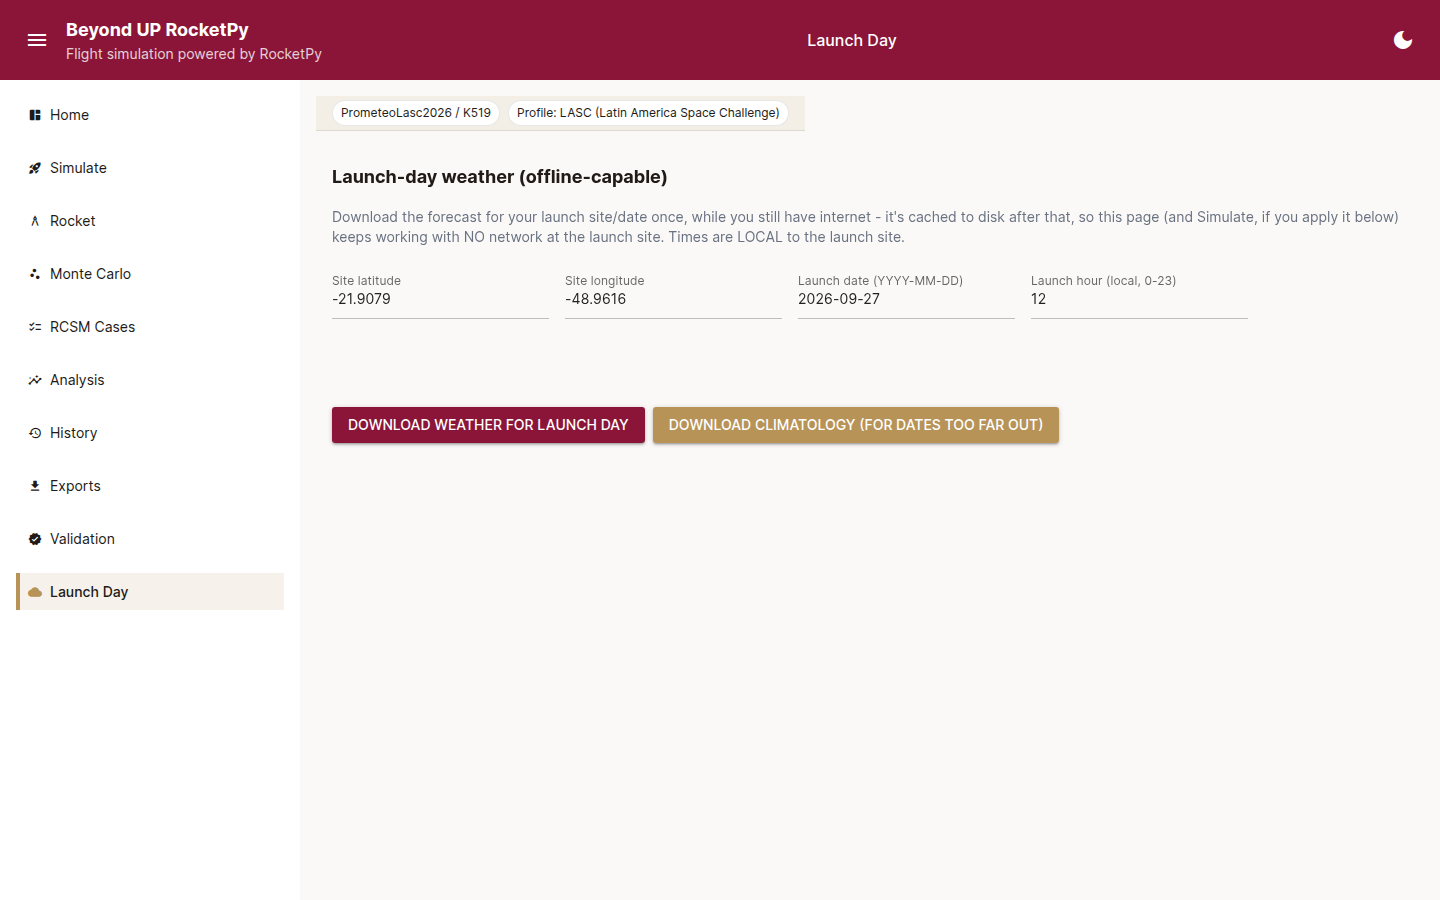
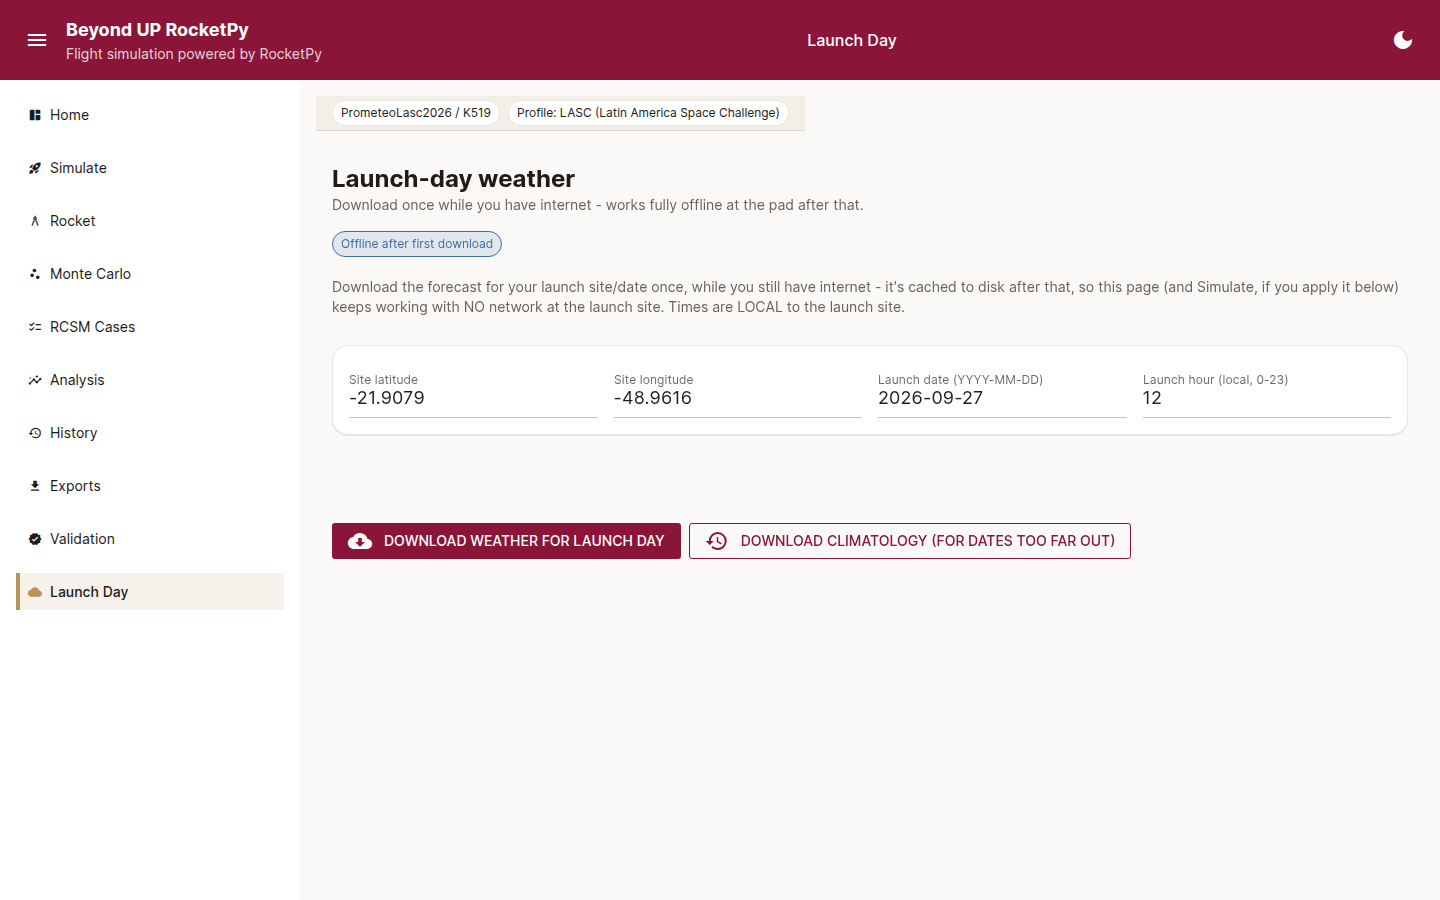
UI redesign: Launch Day page
- New components.hero_stat(): a single big, high-contrast number for
  field-friendly displays - readable at a glance in bright sunlight at
  the pad, unlike a small KPI grid.
- Wind speed/direction (both the live forecast and the climatology
  fallback) now render as hero stats instead of small KPI cards.
- Large input card for site/date/hour, an "Offline after first
  download" info chip near the top, themed buttons/status chips
  throughout (weather-override-active banner, source attribution).

Full suite: test_phase0_e2e_full.py 3/3 green (includes the
"Launch-day weather" content-marker check, page title kept as the
marker text).

Claude-Session: https://claude.ai/code/session_01RHCgNw4tm9jk7r5jJja457

diff --git a/bup_rocketpy/gui/pages/launchday_page.py b/bup_rocketpy/gui/pages/launchday_page.py
@@ -14,7 +14,7 @@ import os
 from nicegui import ui
 
 from bup_rocketpy import competition_profiles, weather
-from bup_rocketpy.gui import layout, state
+from bup_rocketpy.gui import components, layout, state
 
 s = state.state
 CACHE_DIR = os.path.join(os.getcwd(), "outputs", "weather_cache")
@@ -23,23 +23,25 @@ CACHE_DIR = os.path.join(os.getcwd(), "outputs", "weather_cache")
 @ui.page("/launchday")
 def launchday_page():
     with layout.layout("Launch Day", current_path="/launchday"):
-        ui.label("Launch-day weather (offline-capable)").classes("text-lg font-bold")
+        components.page_header("Launch-day weather", "Download once while you have internet - works fully offline at the pad after that.")
+        components.status_chip("Offline after first download", "info")
         ui.label(
             "Download the forecast for your launch site/date once, while you still have internet - "
             "it's cached to disk after that, so this page (and Simulate, if you apply it below) keeps "
             "working with NO network at the launch site. Times are LOCAL to the launch site."
-        ).classes("text-sm text-gray-500")
+        ).classes("text-sm mt-1").style("color: var(--bup-muted)")
 
         profile = competition_profiles.get_profile(s["competition_profile"])
         launch = s["load_result"].parsed_ork.launch if s["load_result"] is not None else None
         default_lat = launch.latitude if launch else (profile.default_site_lat or 0.0)
         default_lon = launch.longitude if launch else (profile.default_site_lon or 0.0)
 
-        with ui.grid(columns=4).classes("gap-4"):
-            lat_input = ui.number(label="Site latitude", value=default_lat, format="%.4f")
-            lon_input = ui.number(label="Site longitude", value=default_lon, format="%.4f")
-            date_input = ui.input(label="Launch date (YYYY-MM-DD)", value=datetime.date.today().isoformat())
-            hour_input = ui.number(label="Launch hour (local, 0-23)", value=12, min=0, max=23)
+        with components.card(classes="w-full mt-3"):
+            with ui.grid(columns=4).classes("gap-4 w-full"):
+                lat_input = ui.number(label="Site latitude", value=default_lat, format="%.4f").classes("text-lg")
+                lon_input = ui.number(label="Site longitude", value=default_lon, format="%.4f").classes("text-lg")
+                date_input = ui.input(label="Launch date (YYYY-MM-DD)", value=datetime.date.today().isoformat()).classes("text-lg")
+                hour_input = ui.number(label="Launch hour (local, 0-23)", value=12, min=0, max=23).classes("text-lg")
 
         status_label = ui.label("")
         result_container = ui.column().classes("w-full mt-2")
@@ -68,49 +70,44 @@ def launchday_page():
                 except ValueError as exc:
                     ui.label(f"Could not read wind from this profile: {exc}").classes("text-red-700")
                     return
-                with ui.grid(columns=3).classes("gap-4"):
-                    for label, value in [
-                        ("Wind speed (10 m)", f"{speed:.1f} m/s"),
-                        ("Wind direction (from)", f"{direction:.0f}°"),
-                        ("Source", profile_obj.source),
-                    ]:
-                        with ui.card():
-                            ui.label(label).classes("text-xs text-gray-500")
-                            ui.label(value).classes("text-lg font-bold")
+                # Field-friendly: the number that matters most (current
+                # surface wind speed) shown huge and high-contrast, not
+                # buried in a KPI grid - readable at a glance in bright
+                # sunlight at the launch site.
+                with ui.row().classes("gap-3 w-full items-stretch"):
+                    components.hero_stat("Wind speed (10 m)", f"{speed:.1f}", "m/s")
+                    components.hero_stat("Wind direction (from)", f"{direction:.0f}", "°")
+                components.status_chip(f"Source: {profile_obj.source}", "info")
 
                 # 2026-09-27 review item 3a: "show the full wind profile
                 # vs altitude, not just one number."
-                ui.label("Wind profile vs altitude").classes("text-md font-bold mt-2")
-                ui.label("Altitude is the ICAO standard-atmosphere approximate height for each pressure level (labeled, not the site's own measured elevation) - for a sense of shear with height, not a precise AGL reading.").classes("text-xs text-gray-500")
-                ui.table(
-                    columns=[
-                        {"name": "altitude", "label": "~Altitude (m ASL)", "field": "altitude"},
-                        {"name": "pressure", "label": "Pressure level", "field": "pressure"},
-                        {"name": "speed", "label": "Wind speed (m/s)", "field": "speed"},
-                        {"name": "direction", "label": "Direction (from, °)", "field": "direction"},
-                    ],
-                    rows=[{
-                        "altitude": f"{alt:.0f}", "pressure": f"{p} hPa" if p else "surface (10 m)",
-                        "speed": f"{spd:.1f}", "direction": f"{d:.0f}",
-                    } for alt, p, spd, d in rows],
-                ).classes("w-full")
+                with components.card(classes="w-full mt-3"):
+                    ui.label("Wind profile vs altitude").classes("font-bold")
+                    ui.label("Altitude is the ICAO standard-atmosphere approximate height for each pressure level (labeled, not the site's own measured elevation) - for a sense of shear with height, not a precise AGL reading.").classes("text-xs").style("color: var(--bup-muted)")
+                    components.data_table(
+                        columns=[
+                            {"name": "altitude", "label": "~Altitude (m ASL)", "field": "altitude"},
+                            {"name": "pressure", "label": "Pressure level", "field": "pressure"},
+                            {"name": "speed", "label": "Wind speed (m/s)", "field": "speed"},
+                            {"name": "direction", "label": "Direction (from, °)", "field": "direction"},
+                        ],
+                        rows=[{
+                            "altitude": f"{alt:.0f}", "pressure": f"{p} hPa" if p else "surface (10 m)",
+                            "speed": f"{spd:.1f}", "direction": f"{d:.0f}",
+                        } for alt, p, spd, d in rows],
+                    )
 
-                ui.button("Use this weather for Simulate", on_click=lambda: _apply_wind(speed, direction, profile_obj.source)).classes("mt-2")
+                components.button("Use this weather for Simulate", kind="primary", icon="check", on_click=lambda: _apply_wind(speed, direction, profile_obj.source)).classes("mt-2")
 
         def render_climatology(clim):
             climatology_container.clear()
             with climatology_container:
-                ui.label(f"Climatology for {clim.month:02d}-{clim.day:02d} {clim.hour:02d}:00 local, averaged over {len(clim.years)} years ({min(clim.years)}-{max(clim.years)})").classes("text-md font-bold")
-                with ui.grid(columns=3).classes("gap-4"):
-                    for label, value in [
-                        ("Wind speed (mean ± std)", f"{clim.wind_speed_mean_ms:.1f} ± {clim.wind_speed_std_ms:.1f} m/s"),
-                        ("Wind direction (mean, from)", f"{clim.wind_direction_mean_deg:.0f}°"),
-                        ("Source", clim.source),
-                    ]:
-                        with ui.card():
-                            ui.label(label).classes("text-xs text-gray-500")
-                            ui.label(value).classes("text-lg font-bold")
-                ui.label("This is a planning estimate (historical spread for that date/hour), not a specific forecast for this exact year.").classes("text-xs text-gray-500")
+                ui.label(f"Climatology for {clim.month:02d}-{clim.day:02d} {clim.hour:02d}:00 local, averaged over {len(clim.years)} years ({min(clim.years)}-{max(clim.years)})").classes("font-bold")
+                with ui.row().classes("gap-3 w-full items-stretch mt-2"):
+                    components.hero_stat("Wind speed (mean ± std)", f"{clim.wind_speed_mean_ms:.1f} ± {clim.wind_speed_std_ms:.1f}", "m/s")
+                    components.hero_stat("Wind direction (mean, from)", f"{clim.wind_direction_mean_deg:.0f}", "°")
+                components.status_chip(f"Source: {clim.source}", "info")
+                ui.label("This is a planning estimate (historical spread for that date/hour), not a specific forecast for this exact year.").classes("text-xs mt-1").style("color: var(--bup-muted)")
 
                 def apply_climatology_mean():
                     _apply_wind(clim.wind_speed_mean_ms, clim.wind_direction_mean_deg, "climatology mean")
@@ -129,18 +126,18 @@ def launchday_page():
                     ui.notify("Monte Carlo's wind uncertainty now uses this climatology - re-run Monte Carlo to see the effect.", type="positive")
 
                 with ui.row().classes("gap-2 mt-2"):
-                    ui.button("Use climatology mean for Simulate", on_click=apply_climatology_mean)
-                    ui.button("Use climatology for Monte Carlo's wind distribution", on_click=apply_climatology_to_mc)
+                    components.button("Use climatology mean for Simulate", kind="primary", icon="check", on_click=apply_climatology_mean)
+                    components.button("Use climatology for Monte Carlo's wind distribution", kind="secondary", icon="scatter_plot", on_click=apply_climatology_to_mc)
 
         if s["launch_override"] is not None:
-            ui.label("A cached weather override is currently ACTIVE for Simulate.").classes("bup-provisional-badge px-3 py-1 rounded font-bold inline-block")
+            components.status_chip("A cached weather override is currently ACTIVE for Simulate.", "warning")
 
             def clear_override():
                 s["launch_override"] = None
                 ui.notify("Cleared - Simulate will use the .ork's own recorded conditions again.", type="info")
                 ui.navigate.reload()
 
-            ui.button("Clear override (use .ork's own recorded weather)", on_click=clear_override, color="negative")
+            components.button("Clear override (use .ork's own recorded weather)", kind="danger", icon="clear", on_click=clear_override)
 
         def download_climatology():
             try:
@@ -178,9 +175,9 @@ def launchday_page():
             status_label.classes(replace="text-green-700")
             render_profile(profile_obj)
 
-        with ui.row().classes("gap-2"):
-            ui.button("Download weather for launch day", on_click=download).classes("mt-2")
-            ui.button("Download climatology (for dates too far out)", on_click=download_climatology, color="secondary").classes("mt-2")
+        with ui.row().classes("gap-2 mt-2"):
+            components.button("Download weather for launch day", kind="primary", icon="cloud_download", on_click=download)
+            components.button("Download climatology (for dates too far out)", kind="secondary", icon="history", on_click=download_climatology)
 
         if s["weather_profile"] is not None:
             render_profile(s["weather_profile"])

diff --git a/bup_rocketpy/gui/components.py b/bup_rocketpy/gui/components.py
@@ -104,6 +104,19 @@ def kpi_card(label, value, unit="", caption=None, status="neutral", countup_targ
     return c
 
 
+def hero_stat(label, value, unit="", status="neutral", caption=None):
+    """A single big, high-contrast number - for field-friendly displays
+    (Launch Day's wind reading, Validation's predicted-vs-flight) meant
+    to be read at a glance, not studied like a KPI grid."""
+    color = STATUS_COLORS.get(status, "var(--bup-wine)") if status != "neutral" else "var(--bup-wine)"
+    with card(classes="items-center text-center") as c:
+        ui.label(label).classes("text-sm").style("color: var(--bup-muted)")
+        ui.label(f"{value} {unit}".strip()).style(f"font-size: 2.75rem; font-weight: 700; line-height: 1.1; color: {color};")
+        if caption:
+            ui.label(caption).classes("text-sm mt-1").style("color: var(--bup-muted)")
+    return c
+
+
 def status_chip(text, kind="neutral"):
     return ui.label(text).classes("text-xs px-2 py-1 rounded-full border").style(CHIP_KIND_STYLE.get(kind, CHIP_KIND_STYLE["neutral"]))
 
